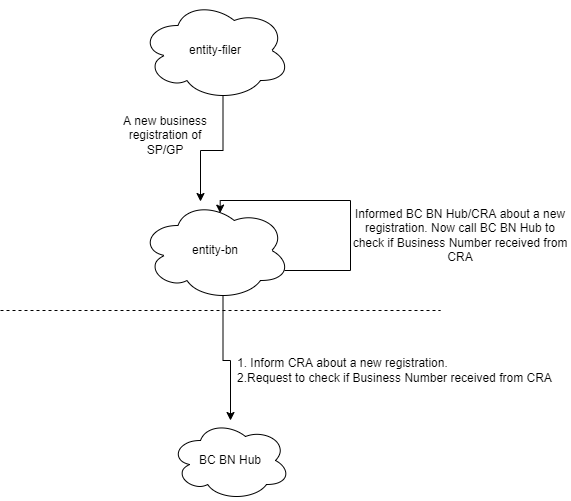
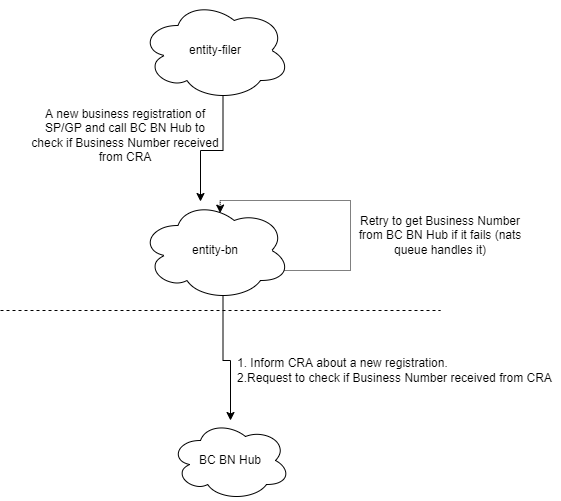
no message

diff --git a/rfcs/rfc-bn-messaging-queue.md b/rfcs/rfc-bn-messaging-queue.md
@@ -24,7 +24,7 @@ So the suggestion is to make the first call to create program account request an
 and later make a second call to do basic information search request to get Business Number (Repeat the second call 
 until OneStop receives the Business Number from CRA).
 
-The integration between OneStop uses XML/SOAP via HTTPS. Both calls mentioned below will be HTTP GET call to the 
+The integration with OneStop uses XML/SOAP via HTTPS. Both calls mentioned below will be HTTP GET call to the 
 same url (`/rest/REST/BCPartner`) with a query parameter `inputXML` and OneStop identifies the call based on the 
 XML provided in `inputXML`
 
@@ -252,14 +252,24 @@ Response Sample
 
 # Approach
 
-1. Introduce a new queue entity-bn. This queue should handle both request based on the queue property. Queue should have
-a business identifier/ business_id and request type (This will be used to identify which api call queue should trigger).
-Once registration filing is processed and business is created then entity-filer emits an event queue 
-(entity.business.bn), then entity-bn inform BC BN Hub about this new registration and once that is processed 
-entity-bn will emit an event queue (entity.business.bn) with request type (get-business-number) to itself, so that it
-can try to get the BN from OneStop (In case of failure it can try multiple times and it has to wait for at least 30
-seconds before making that call). This way we can track which call get failed and no need to send information to CRA
-multiple times. We will have a table to track all the request with request xml and response xml and number of retires.
+1. Introduce a new queue `entity-bn`. This queue handle both request. Subscribe to the event queue (`entity.events`)
+which `entity-filer` already emits and listen for type `bc.registry.business.registration`, check `bn_request_tracker`
+table for this identifier (if not exist insert with request_type `inform-cra` else if is_processed skip the 1st call)
+and inform BC BN Hub about new registration (1st call) and once its processed update is_processed in 
+`bn_request_tracker`. Now check `bn_request_tracker` table for this identifier and request_type `get-bn` (if not exist
+insert with request_type `get-bn` else if exist check is_processed and update retry_number without exceeding limit 
+(maybe 5)) and request BC BN Hub to get Business Number (in case of failure raise error (if retry_number exceeds limit
+no need to raise error) which will put this back to queue and based on nats the default retry is after 30 seconds)
+and once that is processed update is_processed.
+    
+    * `bn_request_tracker`
+        * id
+        * business_id
+        * request_type (inform-cra, get-bn)
+        * is_processed
+        * request_xml
+        * response_xml
+        * retry_number
 
     ![entity-bn](rfc-bn-messaging/entity-bn.png)
 
